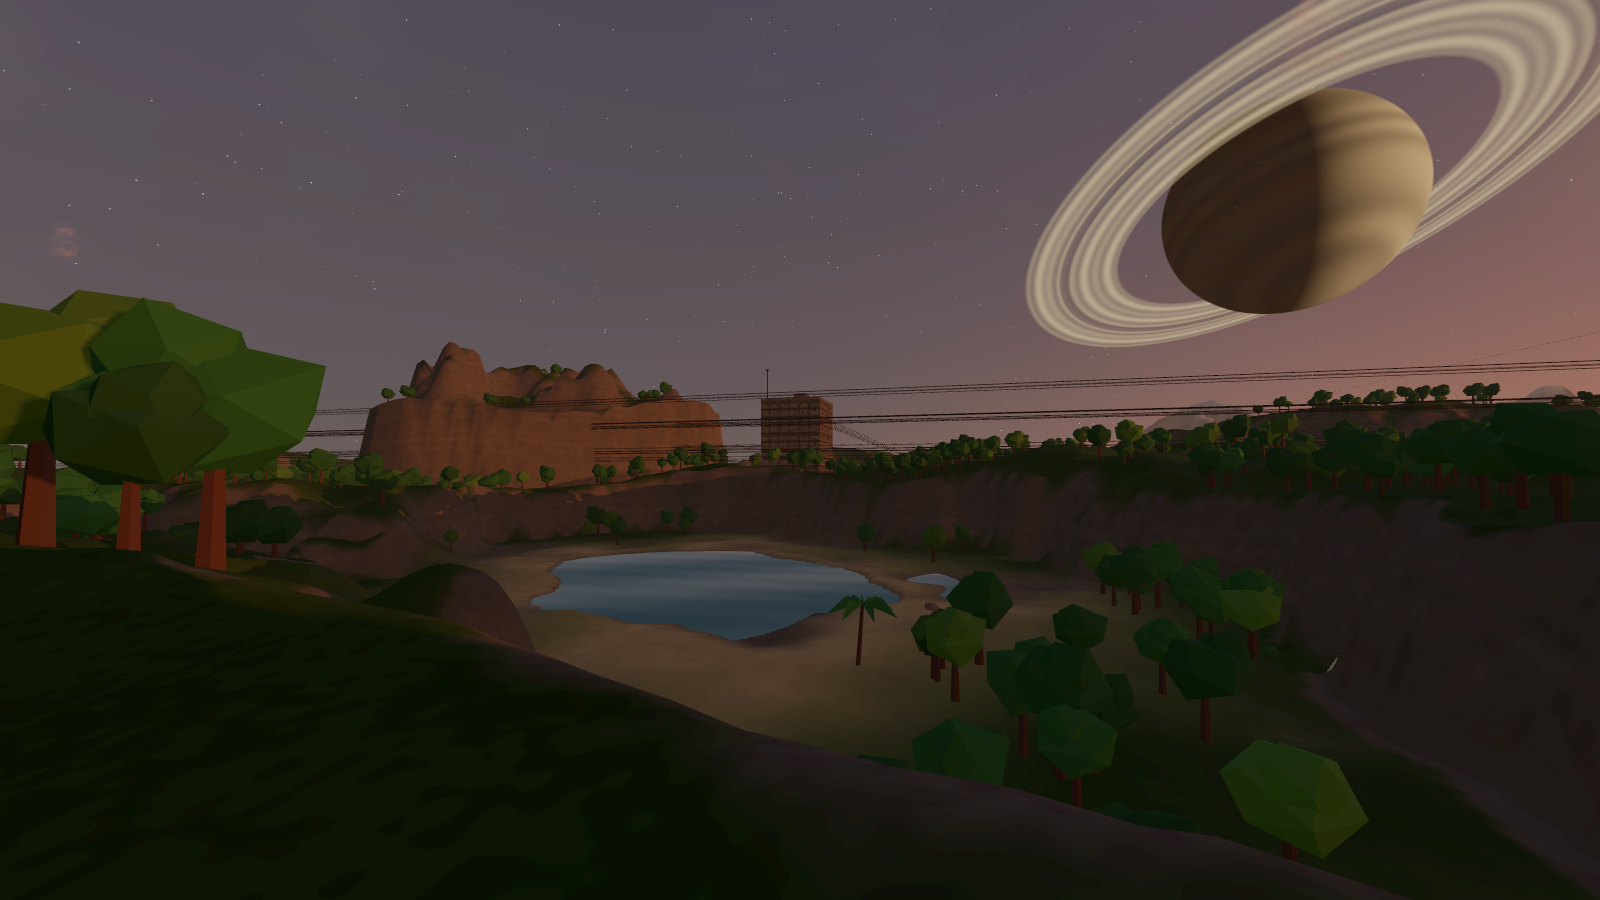
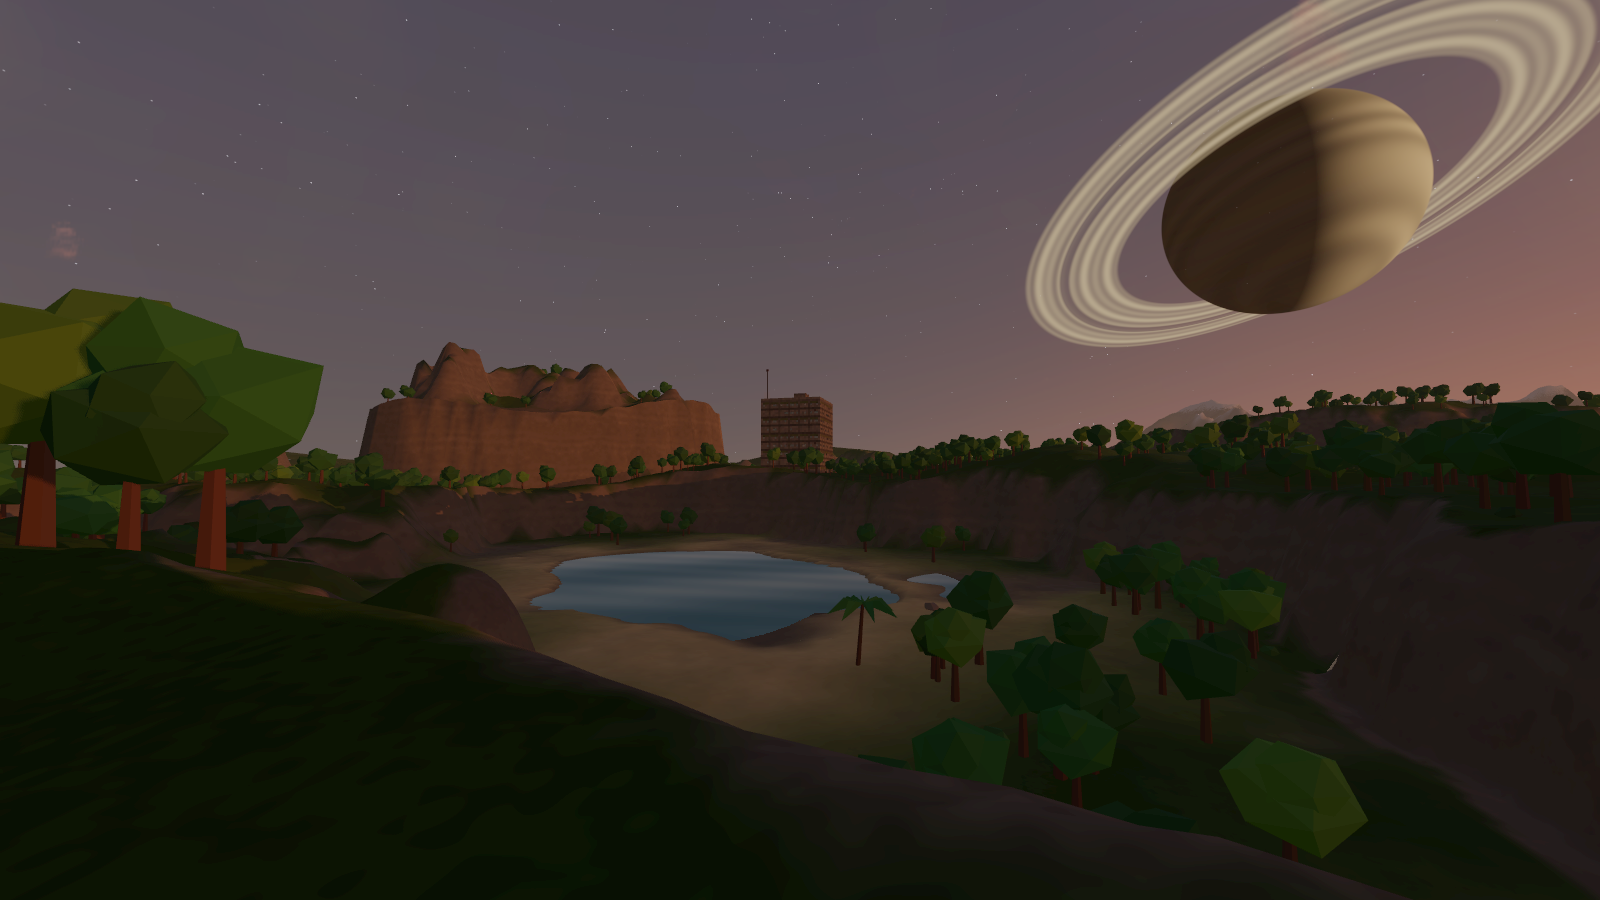
Fix the stray "wires": crack strokes thrown 250,000 km by an unsigned wrap
The long lines across the far views were the crack strokes on breakable walls
(the tell of a hidden room): an unsigned (h % 5) - 2 wrapped to four billion,
throwing one vertex of each stroke a quarter of a million kilometres out. The
arithmetic is signed now.

New Geometry check: every vertex of every place's mesh lies inside its block
grid and no triangle edge is longer than a chunk and a half (it fails on the
old code). The tether check also catches hanging runs over 16 m, strands in the
ground and anything strung sideways: cables only ever drop straight from a
solid anchor. The far dusk view of the tower is re-shot without the lines.
Planet-surface screenshots gain --hide=mesh,smoke for this kind of hunt.

Changed region(s): [[0.375, 0.4044, 1.0, 0.5289], [0.1875, 0.4356, 0.2188, 0.4978], [0.0312, 0.3111, 0.0625, 0.3422]]

diff --git a/prototypes/poi-generator/tests/PoiTest.cs b/prototypes/poi-generator/tests/PoiTest.cs
@@ -30,7 +30,7 @@ public partial class PoiTest : Node
             ("LootByRarity", LootByRarity), ("LootByDepth", LootByDepth), ("Carved", Carved), ("Hidden", Hidden),
             ("Breaches", Breaches), ("Keys", Keys), ("PlacementRules", PlacementRules), ("NoRepeatsInSystem", NoRepeatsInSystem),
             ("SeenWeighting", SeenWeighting), ("RegrowthPolicy", RegrowthPolicy), ("RevealDistances", RevealDistances),
-            ("WorldPlacement", WorldPlacementCheck), ("StartWorlds", StartWorlds), ("Tethers", Tethers), ("RequiredRooms", RequiredRooms), ("Ages", Ages), ("FactionMix", FactionMix), ("Townsfolk", TownsfolkCheck), ("Blasts", Blasts), ("StartSystems", StartSystems), ("Landmarks", Landmarks), ("ShooterTags", ShooterTags), ("Performance", Performance),
+            ("WorldPlacement", WorldPlacementCheck), ("StartWorlds", StartWorlds), ("Tethers", Tethers), ("Geometry", Geometry), ("RequiredRooms", RequiredRooms), ("Ages", Ages), ("FactionMix", FactionMix), ("Townsfolk", TownsfolkCheck), ("Blasts", Blasts), ("StartSystems", StartSystems), ("Landmarks", Landmarks), ("ShooterTags", ShooterTags), ("Performance", Performance),
         };
         try
         {
@@ -876,10 +876,48 @@ public partial class PoiTest : Node
         Check(missing == 0, $"programs guarantee their must-have rooms: {buildings} buildings, {demands} required rooms, {missing} missing{first}");
     }
 
+    /// <summary>
+    /// No stray geometry: every vertex of every place's mesh lies inside its block grid (a metre of
+    /// slack), and no triangle edge is longer than a chunk's diagonal. This is what catches a
+    /// "wire" across the landscape: a stroke or strand thrown out of its cell.
+    /// </summary>
+    void Geometry()
+    {
+        int places = 0, stray = 0, triangles = 0;
+        string first = "";
+        foreach (var f in _lib.Families)
+            foreach (PoiState s in Enum.GetValues<PoiState>())
+            {
+                var p = PoiFactory.Generate(_lib, f, 0, Rarity.Uncommon, s, 13);
+                places++;
+                var g = p.Blocks;
+                var chunks = Mesher.Build(g, p.Layout.Occupied, new MeshOptions { RockMin = new Int3(1, 0, 1), RockMax = new Int3(0, 0, 0), RockBottom = g.Min.Y });
+                float lo = -1f, maxEdge = 16f * 1.5f;
+                foreach (var c in chunks)
+                    foreach (var buf in c.Surfaces)
+                        for (int t = 0; t + 2 < buf.Indices.Count; t += 3)
+                        {
+                            triangles++;
+                            bool bad = false;
+                            for (int e = 0; e < 3 && !bad; e++)
+                            {
+                                int a = buf.Indices[t + e] * 3, b = buf.Indices[t + (e + 1) % 3] * 3;
+                                float x = buf.Positions[a], y = buf.Positions[a + 1], z = buf.Positions[a + 2];
+                                bad |= float.IsNaN(x) || x < g.Min.X + lo || y < g.Min.Y + lo - 64 || z < g.Min.Z + lo
+                                       || x > g.Min.X + g.Size.X + 1 || y > g.Min.Y + g.Size.Y + 1 || z > g.Min.Z + g.Size.Z + 1;
+                                float dx = x - buf.Positions[b], dy = y - buf.Positions[b + 1], dz = z - buf.Positions[b + 2];
+                                bad |= dx * dx + dy * dy + dz * dz > maxEdge * maxEdge;
+                            }
+                            if (bad) { stray++; if (first.Length == 0) first = $" (first: {f.Id} {s} near {buf.Positions[buf.Indices[t] * 3]:F1}, {buf.Positions[buf.Indices[t] * 3 + 1]:F1}, {buf.Positions[buf.Indices[t] * 3 + 2]:F1})"; }
+                        }
+            }
+        Check(stray == 0, $"no stray geometry: {triangles} triangles in {places} places, every vertex inside its place and no edge longer than {16 * 1.5f:F0} m ({stray} stray){first}");
+    }
+
     /// <summary>Cables, wires and tendrils always hang from something: never in mid-air.</summary>
     void Tethers()
     {
-        int places = 0, hanging = 0, loose = 0;
+        int places = 0, hanging = 0, loose = 0, longRuns = 0, buried = 0, sideways = 0;
         foreach (var f in _lib.Families)
             foreach (PoiState s in Enum.GetValues<PoiState>())
             {
@@ -888,7 +926,26 @@ public partial class PoiTest : Node
                 hanging += p.Blocks.Blocks().Count(b => Structure.Hangs(b.Block.Type));
                 loose += Structure.Untethered(p.Blocks).Count;
             }
-        Check(hanging > 0 && loose == 0, $"cables and tendrils: {hanging} hanging things in {places} places, every one hangs from an anchor above it ({loose} in mid-air)");
+        // No spans: a hanging run is one straight drop under its anchor, never longer than a tall hall,
+        // never in the ground, and never a strand strung sideways from one cell to the next.
+        foreach (var f in _lib.Families)
+        {
+            var p = PoiFactory.Generate(_lib, f, 0, Rarity.Uncommon, PoiState.Infested, 31);
+            var g = p.Blocks;
+            foreach (var (c, b) in g.Blocks())
+            {
+                if (!Structure.Hangs(b.Type)) continue;
+                if (c.Y < 0 && !p.Layout.Occupied[c]) buried++;
+                if (Structure.Hangs(g.Get(c + Int3.Up).Type)) continue;   // count each run once, from its top
+                int run = 0;
+                while (Structure.Hangs(g.Get(c + Int3.Down * run).Type)) run++;
+                if (run > 16) longRuns++;
+                bool side = Dirs.Horizontal.Any(d => Structure.Hangs(g.Get(c + d.Vec()).Type) && !BlockInfo.Collides(g.Get(c + d.Vec() + Int3.Up).Type) && !Structure.Hangs(g.Get(c + d.Vec() + Int3.Up).Type));
+                if (side && BlockInfo.Collides(g.Get(c + Int3.Up).Type) == false) sideways++;
+            }
+        }
+        Check(hanging > 0 && loose == 0 && longRuns == 0 && buried == 0 && sideways == 0,
+            $"cables and tendrils: {hanging} hanging things in {places} places, every one hangs straight down from an anchor above it; {loose} in mid-air, {longRuns} runs over 16 m, {buried} in the ground, {sideways} strung sideways");
     }
 
     /// <summary>Start worlds: no faction holds ground (faction places only as ruins), no cores, no defenders; the rest stays.</summary>

diff --git a/prototypes/planet-surface/tests/Screenshot.cs b/prototypes/planet-surface/tests/Screenshot.cs
@@ -102,6 +102,10 @@ public partial class Screenshot : Node
                 bool settled = _main.Streamer.Settled && _main.Pois.Built;
                 _settled = settled ? _settled + 1 : 0;
                 if (_settled == SettleFrames - 12) _spec.BeforeCapture?.Invoke(_main);
+                if (_settled == SettleFrames - 12 && _args.TryGetValue("hide", out string hide))
+                    foreach (Node n in _main.Pois.GetChildren())
+                        foreach (Node c in n.GetChildren())
+                            if ((c is CpuParticles3D && hide.Contains("smoke")) || (c is MeshInstance3D && hide.Contains("mesh"))) ((Node3D)c).Visible = false;
                 if (_settled < SettleFrames) return;
                 _stage = 2;
                 Capture();

diff --git a/prototypes/poi-generator/src/Gen/Mesher.cs b/prototypes/poi-generator/src/Gen/Mesher.cs
@@ -241,7 +241,7 @@ public static class Mesher
                 float u = 0.2f + (h % 7) / 12f, v = 0.1f;
                 for (int k = 0; k < 4; k++)
                 {
-                    float du = ((h >> (k * 3)) % 5 - 2) * 0.06f, dv = 0.18f + ((h >> (k * 2 + 1)) % 3) * 0.04f;
+                    float du = ((int)((h >> (k * 3)) % 5) - 2) * 0.06f, dv = 0.18f + (int)((h >> (k * 2 + 1)) % 3) * 0.04f; // signed: an unsigned wrap here once threw strokes 250,000 km out
                     lines.Add((Math.Min(u, u + du), v, Math.Max(u, u + du) + 0.035f, v + dv));
                     u += du;
                     v += dv;
